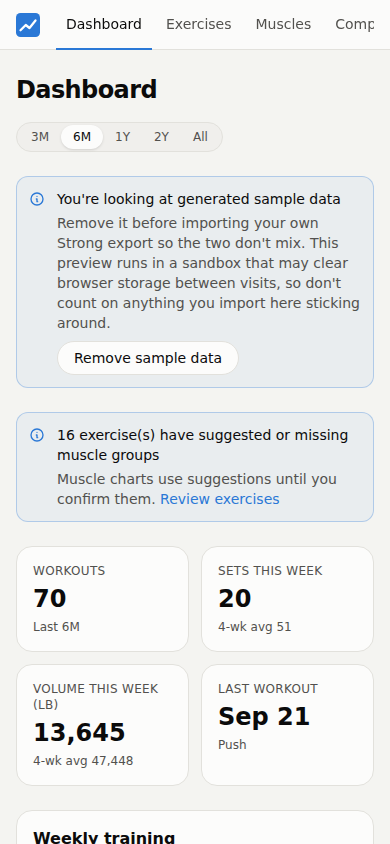
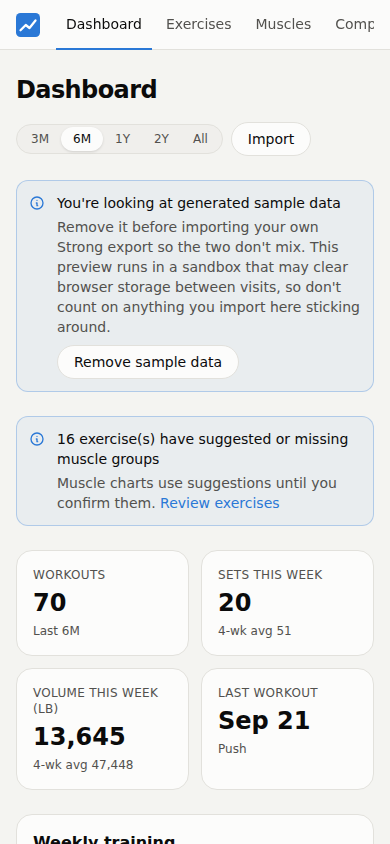
Give up the Import nav slot for entry points on the dashboard and in settings
Importing is occasional, so it does not need a permanent place in the navigation next to
the things you look at every session. The screen stays — the flow is too large to inline —
but it is now reached from an Import button on the dashboard and an Import card in
settings, which also reports the last import. The screen carries a link back to the
dashboard, since it is no longer in the nav.

Navigation drops to five items, which also leaves less to scroll on a phone.

Claude-Session: https://claude.ai/code/session_01AWoBy98a8NvHr3Bq7afczC

diff --git a/src/components/settings/ImportCard.tsx b/src/components/settings/ImportCard.tsx
@@ -1,0 +1,32 @@
+import { formatDate } from '../../domain/dates';
+import { formatNumber } from '../../domain/units';
+import { useImports } from '../../hooks/useData';
+import { useSourceLabels } from '../../hooks/useSourceLabels';
+import { Card, LinkButton, Muted } from '../ui';
+
+/**
+ * Importing is occasional, so it lives behind an entry point rather than a permanent
+ * navigation slot. This card is one of the ways in, and says where things stand.
+ */
+export function ImportCard() {
+  const imports = useImports();
+  const label = useSourceLabels();
+  const last = imports?.[0];
+
+  return (
+    <Card
+      title="Import"
+      subtitle="Bring in a Strong export, or any CSV you map yourself."
+      actions={<LinkButton to="/import">Import data</LinkButton>}
+    >
+      {last ? (
+        <Muted>
+          Last import: {last.fileName} ({label(last.source)}), {formatNumber(last.added, 0)} set(s)
+          added on {formatDate(last.importedAt.slice(0, 19))}.
+        </Muted>
+      ) : (
+        <Muted>Nothing imported yet.</Muted>
+      )}
+    </Card>
+  );
+}

diff --git a/src/pages/SettingsPage.tsx b/src/pages/SettingsPage.tsx
@@ -3,6 +3,7 @@ import { BackupCard } from '../components/settings/BackupCard';
 import { ClearDataCard } from '../components/settings/ClearDataCard';
 import { DuplicatesCard } from '../components/settings/DuplicatesCard';
 import { FormatsCard } from '../components/settings/FormatsCard';
+import { ImportCard } from '../components/settings/ImportCard';
 import { PreferencesCard } from '../components/settings/PreferencesCard';
 import { ProfileCard } from '../components/settings/ProfileCard';
 import { StorageCard } from '../components/settings/StorageCard';
@@ -21,6 +22,7 @@ export default function SettingsPage() {
           <PreferencesCard />
         </div>
         <div className="min-w-0 space-y-6">
+          <ImportCard />
           <StorageCard />
           <FormatsCard />
           <AliasesCard />

diff --git a/src/pages/DashboardPage.tsx b/src/pages/DashboardPage.tsx
@@ -8,6 +8,7 @@ import { RangeControls } from '../components/RangeControls';
 import {
   Callout,
   Card,
+  LinkButton,
   PageHeader,
   Segmented,
   StatGrid,
@@ -94,7 +95,15 @@ export default function DashboardPage() {
 
   return (
     <>
-      <PageHeader title="Dashboard" actions={<RangeControls range={range} onRange={setRange} />} />
+      <PageHeader
+        title="Dashboard"
+        actions={
+          <>
+            <RangeControls range={range} onRange={setRange} />
+            <LinkButton to="/import">Import</LinkButton>
+          </>
+        }
+      />
 
       <SampleDataBanner />
       {review > 0 && (

diff --git a/src/components/ui/LinkButton.tsx b/src/components/ui/LinkButton.tsx
@@ -1,0 +1,22 @@
+import type { ReactNode } from 'react';
+import { Link } from 'react-router-dom';
+import { buttonClasses, type ButtonVariant } from './buttonClasses';
+
+/** A router link that reads as a button, for actions that are really navigation. */
+export function LinkButton({
+  to,
+  children,
+  variant,
+  className,
+}: {
+  to: string;
+  children: ReactNode;
+  variant?: ButtonVariant;
+  className?: string;
+}) {
+  return (
+    <Link to={to} className={buttonClasses(variant, className)}>
+      {children}
+    </Link>
+  );
+}

diff --git a/src/components/ui/index.ts b/src/components/ui/index.ts
@@ -1,6 +1,7 @@
 export { Button } from './Button';
 export { buttonClasses, type ButtonVariant } from './buttonClasses';
 export { Card, PageHeader } from './Card';
+export { LinkButton } from './LinkButton';
 export { ConfirmDialog } from './ConfirmDialog';
 export { DataTable, type Column } from './DataTable';
 export {

diff --git a/src/components/Layout.tsx b/src/components/Layout.tsx
@@ -9,7 +9,6 @@ const NAV = [
   { to: '/exercises', label: 'Exercises' },
   { to: '/muscles', label: 'Muscles' },
   { to: '/compare', label: 'Compare' },
-  { to: '/import', label: 'Import' },
   { to: '/settings', label: 'Settings' },
 ];
 
